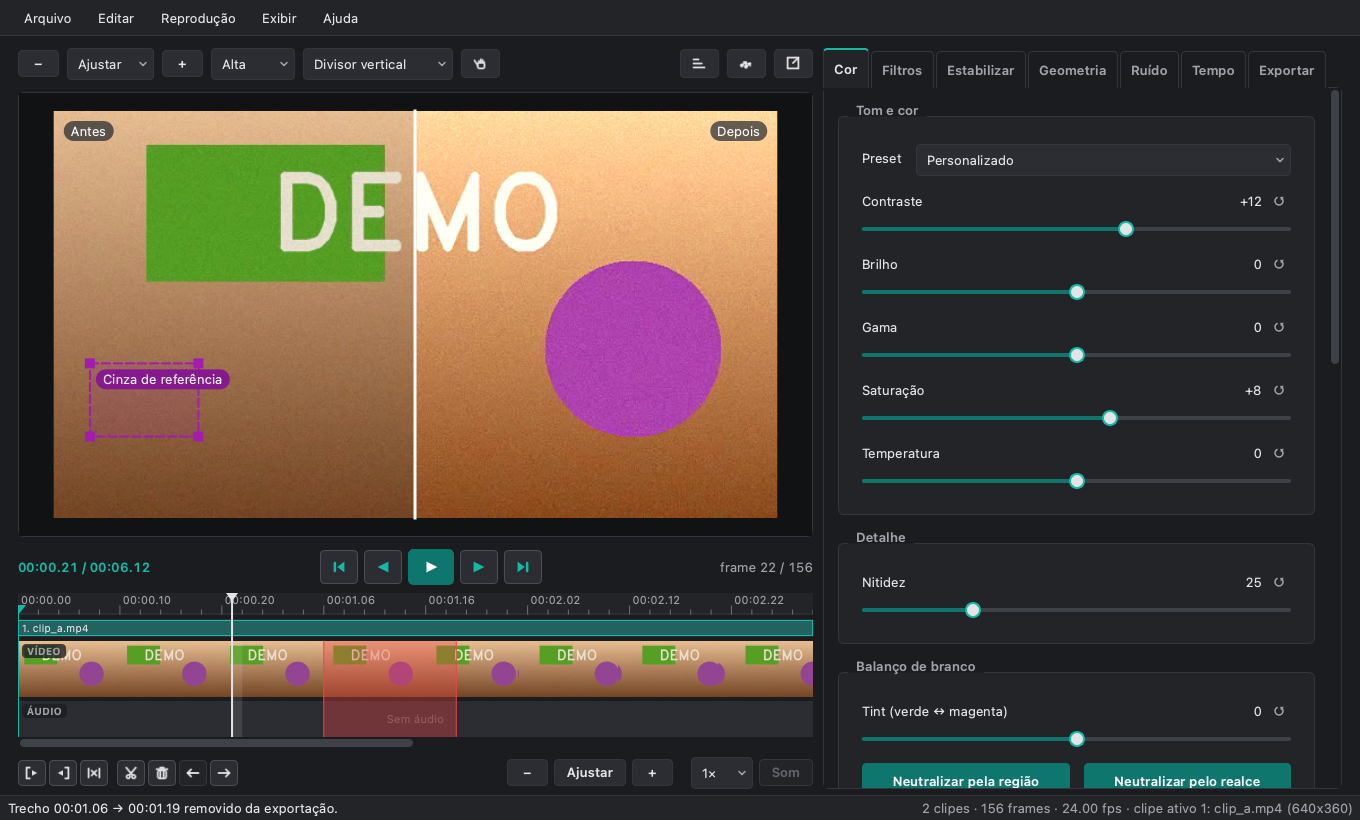
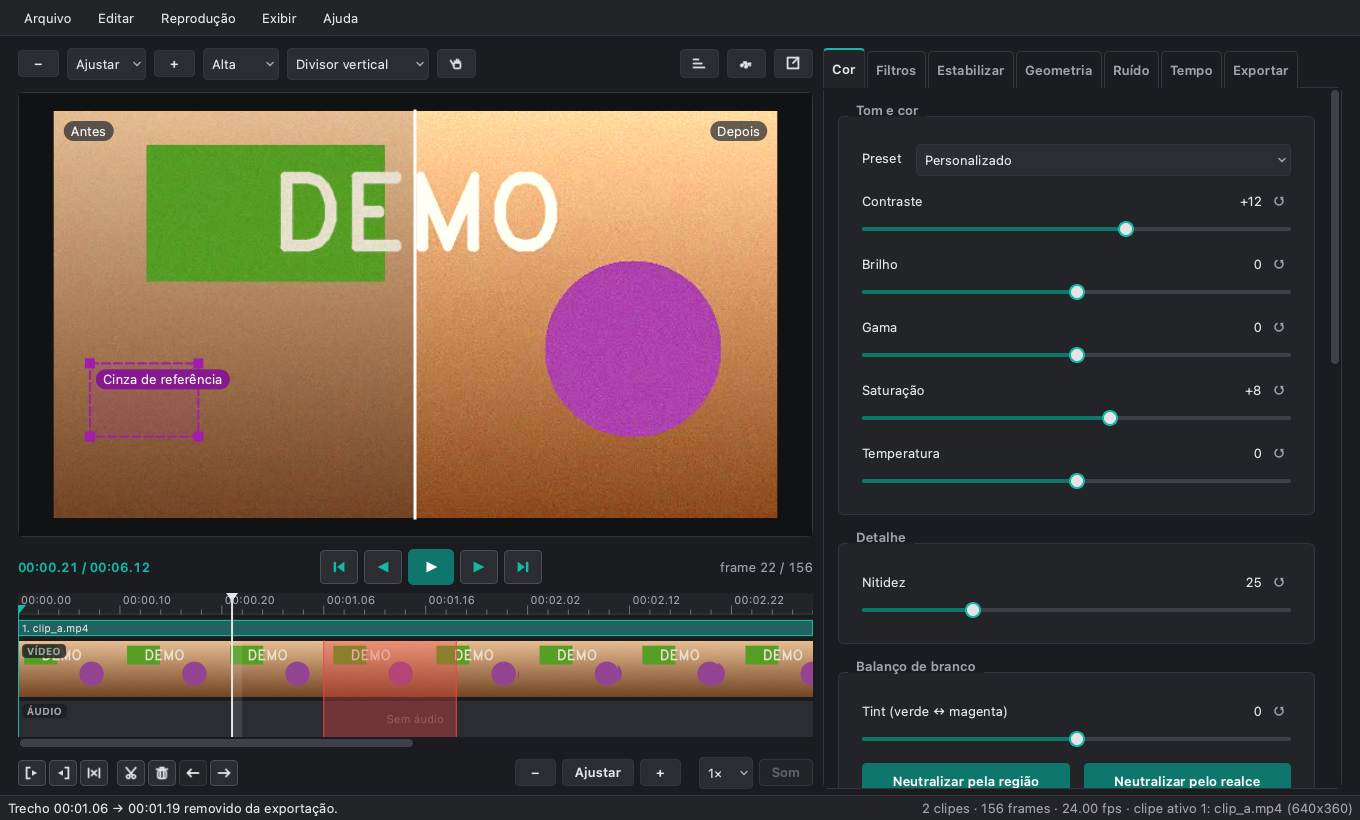
Publicação: usuário do GitHub, URLs do projeto, CI estável e layout que cabe no Linux
- README e badges: OWNER -> alvesmaicon; [project.urls] no pyproject.
- dev deps com teto: ruff na minor validada (minors novas mudam regras e
  formatação) e mypy<2 (o 2.x recusa python_version 3.9).
- O CI simulado (ubuntu:24.04, mesma linha de apt do workflow) pegou
  test_tabs_still_fit_in_a_small_window falhando: com a DejaVu Sans do
  Ubuntu a janela pedia 1237 px (1239 já antes do tema; a fonte do macOS
  é ~5% mais estreita). A barra de abas definia a largura do painel:
  padding horizontal das abas 10->8 e combos mais enxutos (padding 10->8,
  seta 20->16) levam o mínimo a 1192 px no Linux e 1158 no macOS.
- Screenshots do README regenerados.

diff --git a/README.md b/README.md
@@ -2,7 +2,7 @@
 
 Editor de vídeo offline para desktop, **multiplataforma** (macOS, Linux e Windows): abre arquivos locais, mostra **antes e depois** lado a lado enquanto você ajusta estabilização, ruído, cor e geometria, monta uma sequência de clipes com cortes, e exporta no seu computador. Nada sai da máquina.
 
-[![CI](https://github.com/OWNER/space-video-enhancer/actions/workflows/ci.yml/badge.svg)](https://github.com/OWNER/space-video-enhancer/actions/workflows/ci.yml)
+[![CI](https://github.com/alvesmaicon/space-video-enhancer/actions/workflows/ci.yml/badge.svg)](https://github.com/alvesmaicon/space-video-enhancer/actions/workflows/ci.yml)
 ![Plataformas](https://img.shields.io/badge/plataformas-macOS%20%7C%20Linux%20%7C%20Windows-555)
 ![Python 3.9+](https://img.shields.io/badge/python-3.9%2B-blue)
 ![PySide6](https://img.shields.io/badge/UI-PySide6-41cd52)
@@ -60,7 +60,7 @@ winget install --id Gyan.FFmpeg -e
 Clone e rode:
 
 ```bash
-git clone https://github.com/OWNER/space-video-enhancer.git
+git clone https://github.com/alvesmaicon/space-video-enhancer.git
 cd space-video-enhancer
 ./run.sh        # macOS e Linux
 .\run.ps1       # Windows (PowerShell) — ou clique duas vezes em run.cmd
